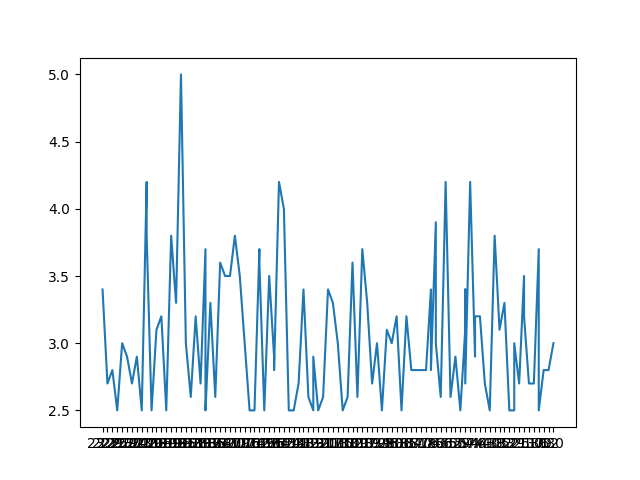
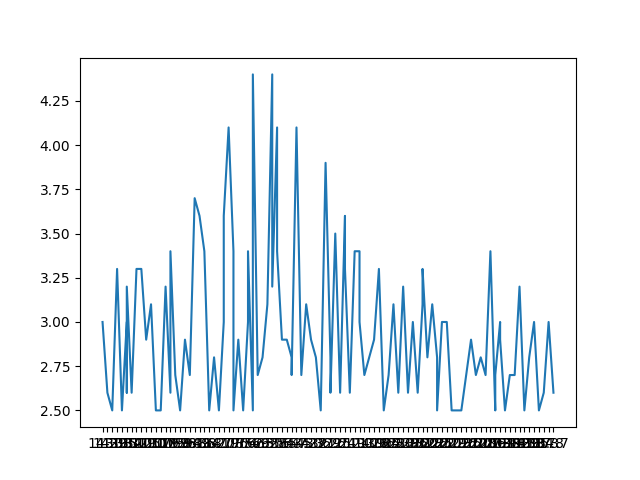
update files

diff --git a/templates/main.html b/templates/main.html
@@ -1,8 +1,17 @@
 <html>
-<body>
+<body style="align-items: center;">
+    <h1>Graph for the last 24 Hours</h1>
     <img src="{{url_for('static', filename='/Image/main.png')}}" />
-    <h1>{{data['min_mag']}}</h1>
-    <h1>{{data['max_mag']}}</h1>
-    <h1>{{data['total']}}</h1>
+    <h1>Min magnitude : {{data['min_mag']}}</h1>
+    <h1>Max magnitude : {{data['max_mag']}}</h1>
+    <h1>Total Earthquakes : {{data['total']}}</h1>
+    <form method="post">
+    From: <input type="datetime-local" name="d1"/>
+    <br/><br/>
+    To: <input type="datetime-local" name="d2"/>
+    <br/><br/>
+    <button type="submit">Submit</button>
+    </form>
+    <h1>last Earthquakes : {{data['last']}}</h1>
 </body>
 </html>

diff --git a/main.py b/main.py
@@ -1,14 +1,26 @@
-from flask import Flask, render_template
+from flask import Flask, render_template, request
 import requests
 import json
 import xmltodict
-import matplotlib.pyplot as plt
+from matplotlib.figure import Figure
+from datetime import datetime
+from datetime import date
+from datetime import timedelta
 
 app = Flask(__name__)
 
-@app.route('/')
-def hello_world():
-    URL = "https://www.seismicportal.eu/fdsnws/event/1/query?start=2023-2-18&end=2023-2-19&minlat=42.240172&maxlat=29.588440&minlon=28.533673&maxlon=49.348036"
+@app.route('/',methods = ['POST', 'GET'])
+def mainView():
+    if request.method == 'GET':
+        t = datetime.now()
+        today = date.today()
+        yesterday = today - timedelta(days = 1)
+        URL = f"https://www.seismicportal.eu/fdsnws/event/1/query?start={yesterday}T{t.hour -2 }:{t.minute}&end={today}T{t.hour -3 }:{t.minute}&minlat=42.240172&maxlat=29.588440&minlon=28.533673&maxlon=49.348036"
+    elif request.method == 'POST':
+        t1 = request.form["d1"]
+        t2 = request.form["d2"]
+        URL = f"https://www.seismicportal.eu/fdsnws/event/1/query?start={t1}&end={t2}&minlat=42.240172&maxlat=29.588440&minlon=28.533673&maxlon=49.348036"
+
     r = requests.get(URL)
     data = r.content
     data_dict = xmltodict.parse(data)
@@ -22,14 +34,17 @@ def hello_world():
         t = int(i[3:6]) / 60
         t = int(i[0:2]) + t
         dec_time.append("{:.1f}".format(t))
-        
-    plt.plot(dec_time, mag)
-    plt.savefig('static/Image/main.png')
-    min_mag, max_mag, total = min(mag), max(mag), len(mag)
+
+    fig = Figure()
+    ax = fig.subplots()
+    ax.plot(dec_time, mag)
+    fig.savefig('static/Image/main.png')    
+    min_mag, max_mag, total, last = min(mag), max(mag), len(mag), mag[:10]
     data = {
         'min_mag':min_mag,
         'max_mag':max_mag,
-        'total':total
+        'total':total,
+        'last':last
     }
     return render_template('main.html', data=data)
 
